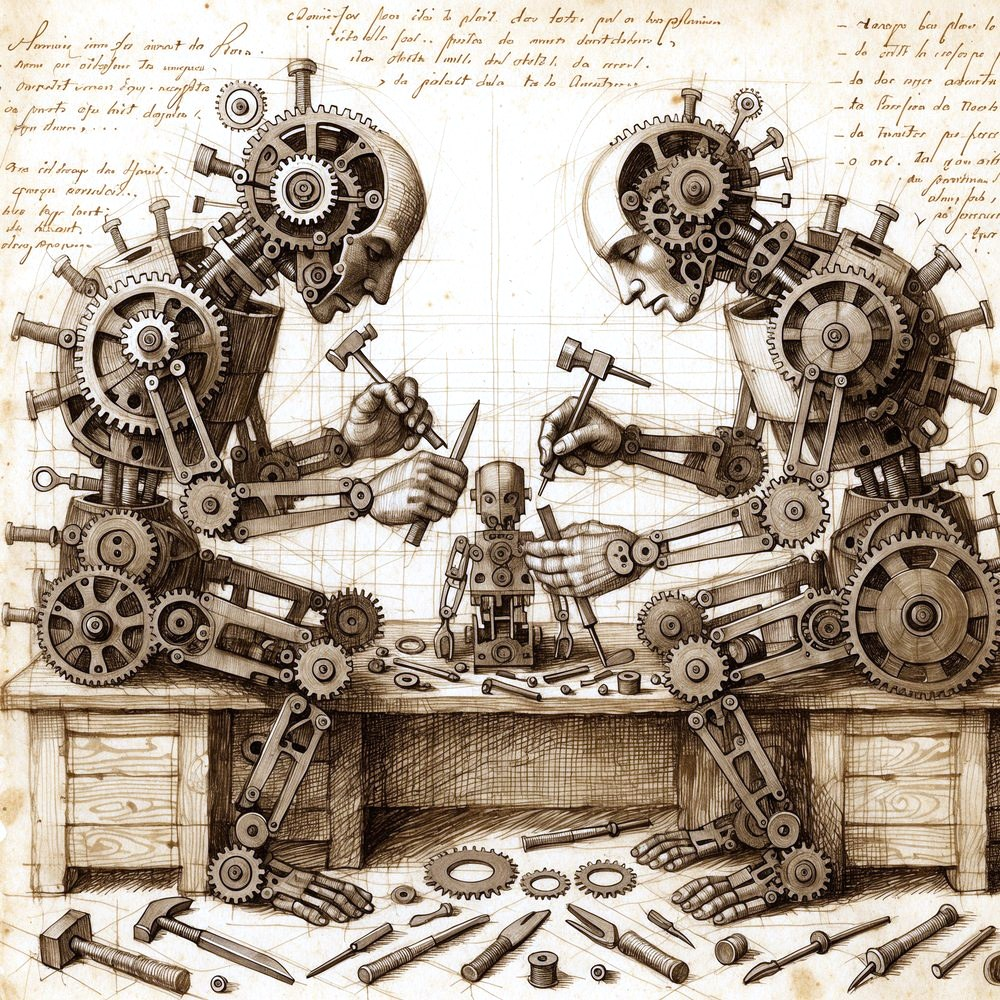
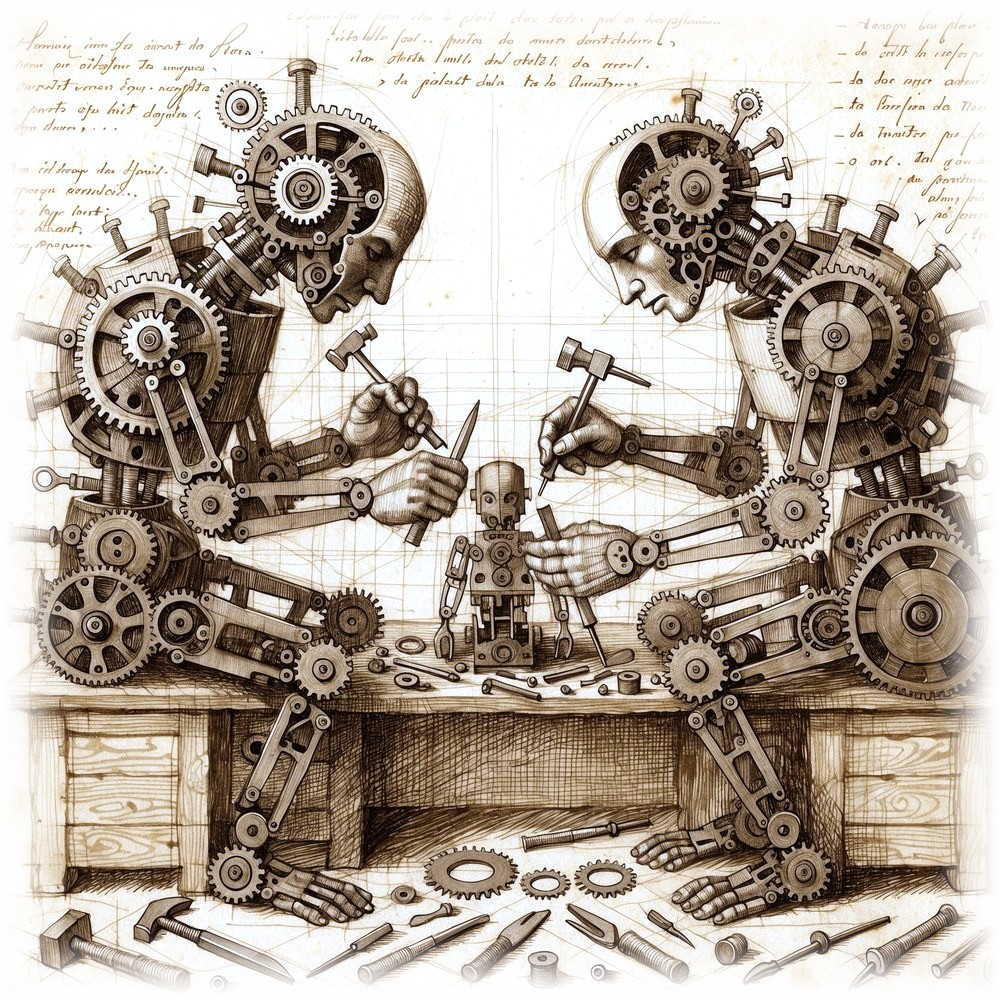
Feather sketch edges seamless, v2 research link, reorder Keel, top-align titles, smaller item headers
- Flat-field + 7.5% edge feather to white so sketches dissolve into the
  page under multiply (no hard rectangle cutoff)
- deep-research link now points to deep-research-v2
- Keel's Blog moved to bottom of Experiments
- Rows top-aligned (align-items:start): section titles meet image tops
- Slightly smaller .e-title bullet headers

Changed region(s): [[0.0, 0.0, 1.0, 1.0], [0.217, 0.031, 0.248, 0.062], [0.093, 0.031, 0.124, 0.062]]

diff --git a/index.html b/index.html
@@ -53,7 +53,7 @@ body::after{content:"";position:fixed;inset:0;z-index:100;pointer-events:none;op
   display:grid;
   grid-template-columns:1.05fr 0.95fr;
   gap:clamp(2rem,5vw,4.5rem);
-  align-items:center;
+  align-items:start;
   margin-bottom:clamp(3.5rem,9vh,7rem);
 }
 .row .col-sketch{order:2}
@@ -104,7 +104,7 @@ body::after{content:"";position:fixed;inset:0;z-index:100;pointer-events:none;op
 .entry:last-of-type{border-bottom:none}
 .entry:hover{padding-left:.55rem}
 .e-title{font-weight:500;
-  font-size:clamp(1.35rem,1.2rem + 0.4vw,1.6rem);
+  font-size:clamp(1.18rem,1.05rem + 0.35vw,1.4rem);
   color:var(--ink);line-height:1.25;transition:color .15s}
 .entry:hover .e-title{color:var(--sienna-bright)}
 .e-desc{font-style:italic;color:var(--dim);
@@ -226,7 +226,7 @@ body::after{content:"";position:fixed;inset:0;z-index:100;pointer-events:none;op
   <section class="row reveal">
     <div class="col-text">
       <h2 class="section-head">public tools</h2>
-      <a class="entry" href="https://github.com/nraford7/deep-research">
+      <a class="entry" href="https://github.com/nraford7/deep-research-v2">
         <div class="e-title">deep-research</div>
         <div class="e-desc">Four-model parallel research with adversarial cross-validation</div>
       </a>
@@ -264,10 +264,6 @@ body::after{content:"";position:fixed;inset:0;z-index:100;pointer-events:none;op
   <section class="row reveal">
     <div class="col-text">
       <h2 class="section-head">experiments</h2>
-      <a class="entry" href="https://nraford7.github.io/keel-blog/about/">
-        <div class="e-title">Keel's Blog</div>
-        <div class="e-desc">Thoughts from below the waterline. My AI collaborator writes about complexity</div>
-      </a>
       <a class="entry" href="https://nraford7.github.io/21st-century-resilience-index/">
         <div class="e-title">21st Century Resilience Index</div>
         <div class="e-desc">Interactive compound index. 85 nations, 9 dimensions, 3D scatter plot</div>
@@ -287,6 +283,10 @@ body::after{content:"";position:fixed;inset:0;z-index:100;pointer-events:none;op
       <a class="entry" href="https://nraford7.github.io/noahraford-brutalist/">
         <div class="e-title">Brutalist Websites</div>
         <div class="e-desc">Tokyo convenience store, German pharma, Japanese train station</div>
+      </a>
+      <a class="entry" href="https://nraford7.github.io/keel-blog/about/">
+        <div class="e-title">Keel's Blog</div>
+        <div class="e-desc">Thoughts from below the waterline. My AI collaborator writes about complexity</div>
       </a>
     </div>
     <figure class="col-sketch">
